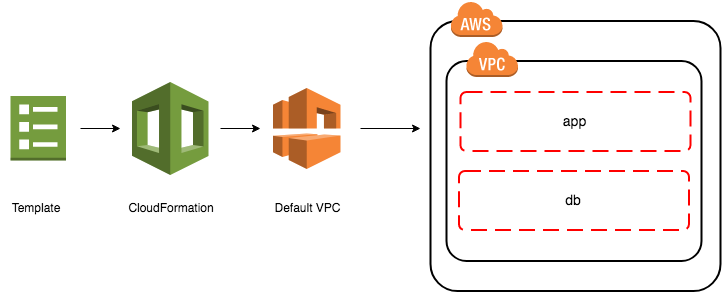
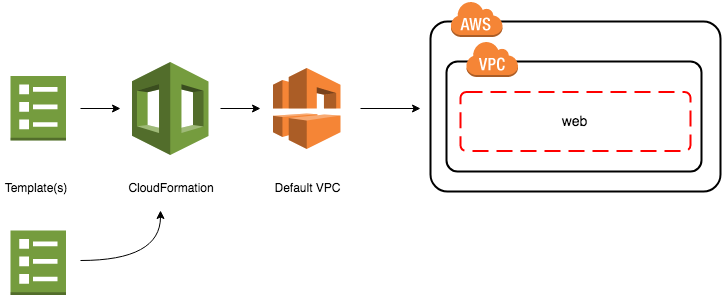
updated lab-002 including lab files

diff --git a/doc/lab-002.md b/doc/lab-002.md
@@ -12,37 +12,42 @@ lab-002 |
 [lab-006](lab-006.md)
 
 ## GOAL: Create SecurityGroup(s) on default VPC
-* Create two SecurityGroups, 'app' and 'db'
-* Groups will have no rules to start with. You will update the SecurityGroups 'app' to add rules.
-
+* Create Security Group with no rules 
+* Updated the Security Group with another stack to add rules to it.
+* Updated the Security Group again with another rule
 
 ![lab-002 SecurityGroups](https://raw.githubusercontent.com/sunil-tailor/lab_cloudformation/master/diagrams/lab-002-g1.png)
 
 
 ## Outcome
 
-This lab will be successful when you have provisioned 2 Security groups one called 'app' and another called 'db' and added the rules to the app security group. You are observing how using a single template file to update a maintian rules for a security group. This allows you to version control one file.
+This lab will be successful when you have provisioned a single Security group and added 2 rules to it via another CloudFormation stack with one rule being an stack update operation.
 
 
 ### Steps
 
+Edit the file `lab-002-g1.yaml` and replace the code entry:
+
+```
+GroupName: app-<YOUR NAME>``
+```
+- Add your name replacing the tag `<YOUR NAME>`
+
+
 <details>
 <summary>Using AWS Console</summary>
 <br/>
-
 
 __ALL services > Management Tools > CloudFormation__
 - Click __'Create Stack'__ Button
 
 __Select template:__
 - Choose __"Upload a template to Amazon S3"__
-- Upload file `lab-002-part-1-sg-app-000.yaml`
+- Upload file `lab-002-g1.yaml`
 - Click __"Next"__
 
 __Specify Details:__
-- Stack Details > __Stack Name__ : `lab-002-sg-<APP OR DB>-<YOUR NAME>`
-  - Replace `<APP OR DB>` with __app__ or __db__
-  - Replace `<YOUR NAME>` with your name in lowercase. This is to keep track of the stacks should you have loads of existing CloudFormation stacks.
+- Stack Details > __Stack Name__ : `lab-002-<YOUR NAME>sg-app`
 - Click __'Next'__
 
 __Options:__
@@ -53,21 +58,7 @@ __Review:__
 - Check the settings
 - Click __'Create'__
 
-__NOTE:__ Repeat the process for both templates: `lab-002-part-1-sg-app-000.yaml` and `lab-002-part-1-sg-db-000.yaml`
-
-Now you should have provisioned 2 security groups: `app` and `db`. Go to the AWS Console and view each of them the `app` Security Group should have no rules while the `db` Security Group should have one rule for MySQL database port.
-
-To view them goto:
-- AWS Console > Services > EC2
-- Network & Security > __Security Groups__   (Should be on the left hand side menu)
-
-Now we now run the following templates in turn: `sg-app-rules-UPDATE-001.yaml`, `sg-app-rules-UPDATE-002.yaml`, `sg-app-rules-UPDATE-003.yaml`
-
-The purpose of this lab is to understand how you can create a security group and add and remove rules from them.
-
 </details>
-
-<br/>
 
 If you prefer to use the CLI then expand __Using AWS CLI__ for steps.
 
@@ -77,11 +68,7 @@ If you prefer to use the CLI then expand __Using AWS CLI__ for steps.
 #### Validate your templates
 ```
 aws cloudformation validate-template \
---template-body file://lab-002-part-1-sg-app-000.yaml \
---profile pg19
-
-aws cloudformation validate-template \
---template-body file://lab-002-part-2-sg-db-000.yaml \
+--template-body file://lab-002-g1.yaml \
 --profile pg19
 ```
 
@@ -89,61 +76,123 @@ aws cloudformation validate-template \
 
 ```
 aws cloudformation create-stack \
---stack-name lab-002-sg-app-<YOUR NAME> \
---template-body file://lab-002-part-1-sg-app-000.yaml \
+--stack-name lab-002-<YOUR NAME>-sg-app \
+--template-body file://lab-002-g1.yaml \
 --profile pg19
 ```
-
-and 
-
-```
-aws cloudformation create-stack \
---stack-name lab-002-sg-db-<YOUR NAME> \
---template-body file://lab-002-part-2-sg-db-000.yaml \
---profile pg19
-```
-- Replace `<YOUR NAME>` with your name in lowercase. This is to keep track of the stacks should you have loads of existing CloudFormation stacks.
-
-Now you should have provisioned 2 security groups: `app` and `db`. Go to the AWS Console and view each of them the `app` Security Group should have no rules while the `db` Security Group should have one rule for MySQL database port.
-
-To view them goto:
-- AWS Console > Services > EC2
-- Network & Security > __Security Groups__  (Should be on the left hand side menu)
-
-Now we now run the following templates in turn: `sg-app-rules-UPDATE-001.yaml`, `sg-app-rules-UPDATE-002.yaml`, `sg-app-rules-UPDATE-003.yaml`
-
-
-```
-aws cloudformation update-stack \
---stack-name lab-002-sg-app-<YOUR NAME> \
---template-body file://sg-app-rules-UPDATE-001.yaml \
---profile pg19
-```
-
-You will notice 2 new rules appear HTTP and HTTPS.
-
-
-```
-aws cloudformation update-stack \
---stack-name lab-002-sg-app-<YOUR NAME> \
---template-body file://sg-app-rules-UPDATE-002.yaml \
---profile pg19
-```
-
-After running this stack update you will notice that the 2 rules from the previous update have disappear and only the rule of SSH, port 22 is now present. This is because the template only contain this rule. 
-
-```
-aws cloudformation update-stack \
---stack-name lab-002-sg-app-<YOUR NAME> \
---template-body file://sg-app-rules-UPDATE-002.yaml \
---profile pg19
-```
-
-After running the final stack update you'll notice that all 3 rules are now present for SSH, HTTP and HTTPS.
 
 </details>
 <br/>
-The purpose of this lab is to understand how you can create a security group and add and remove rules from them all from a single template.
+
+__View Security Group__
+- AWS Console > Services > EC2
+- Network & Security > __Security Groups__  (Should be on the left hand side menu)
+
+Note down the Security Group Id should be sometime like `sg-XXXXXXXX`
+
+Edit the files `lab-002-g2.yaml` and `lab-002-g3.yaml` replace the tag `<GROUP ID>` with your Security Group Id. 
+
+Create a new stack called `lab-002-<YOUR NAME>-sg-app-rules`
+
+<details>
+<summary>Using AWS Console</summary>
+<br/>
+
+__ALL services > Management Tools > CloudFormation__
+- Click __'Create Stack'__ Button
+
+__Select template:__
+- Choose __"Upload a template to Amazon S3"__
+- Upload file `lab-002-g2.yaml`
+- Click __"Next"__
+
+__Specify Details:__
+- Stack Details > __Stack Name__ : `lab-002-<YOUR NAME>sg-app-rules`
+- Click __'Next'__
+
+__Options:__
+- Permissions > IAM Role: `pg19meetupLabsRole`
+- Click __'Next'__
+
+__Review:__
+- Check the settings
+- Click __'Create'__
+
+</details>
+
+If you prefer to use the CLI then expand __Using AWS CLI__ for steps.
+
+<details>
+<summary>Using AWS CLI</summary>
+
+#### Validate your templates
+```
+aws cloudformation validate-template \
+--template-body file://lab-002-g2.yaml \
+--profile pg19
+```
+
+#### Run 
+
+```
+aws cloudformation create-stack \
+--stack-name lab-002-<YOUR NAME>-sg-app \
+--template-body file://lab-002-g2.yaml \
+--profile pg19
+```
+
+</details>
+<br>
+
+Now view the security group `app-<YOUR NAME>` 
+
+__View Security Group__
+- AWS Console > Services > EC2
+- Network & Security > __Security Groups__ (Should be on the left hand side menu)
+
+You should now see the rule has been added.
+
+Now we will update the rules stack again to see how to update stacks and add new rules.
+
+Update the stack `lab-002-<YOUR NAME>-sg-app-rules`
+
+<details>
+<summary>Using AWS Console</summary>
+<br/>
+
+__ALL services > Management Tools > CloudFormation__
+- Click __'Actions'__ > __Update Stack__ Button
+
+__Select template:__
+- Choose __"Upload a template to Amazon S3"__
+- Upload file "lab-003-g2.yaml"
+- Click __"Next"__
+
+__Specify Details:__
+- Stack Details > __Stack Name__ : `lab-002-<YOUR NAME>-sg-app-rules`
+- Click __'Next'__
+
+__Options:__
+- Permissions > IAM Role: `pg19meetupLabsRole`
+- Click __'Next'__
+
+__Review:__
+- Check the settings
+- Click __'Update'__
+</details>
+
+If you prefer to use the CLI then expand __Using AWS CLI__ for steps.
+
+<details>
+<summary>Using AWS CLI</summary>
+
+```
+aws cloudformation update-stack \
+--stack-name lab-002-<YOUR NAME>-app-rules \
+--template-body file://lab-002-g3.yaml \
+--profile pg19
+```
+</details>
 <br/>
 <br/>
 
@@ -154,31 +203,6 @@ The purpose of this lab is to understand how you can create a security group and
 * GroupName Constraints: Up to 255 characters in length. Cannot start with `sg-` .
 * Constraints for EC2-VPC: a-z, A-Z, 0-9, spaces, and `._-:/()#,@[]+=;{}!$*`
 
-```
-AWSTemplateFormatVersion: "2010-09-09"
-Description: Application Security Group
-Resources:
-  AppSecurityGroup:
-    Type: AWS::EC2::SecurityGroup
-    Properties:
-      GroupDescription: Application layer
-      GroupName: app
-      SecurityGroupIngress:
-        - IpProtocol: tcp
-          FromPort: '80'
-          ToPort: '80'
-          CidrIp: 0.0.0.0/0
-
-        - IpProtocol: tcp
-          FromPort: '443'
-          ToPort: '443'
-          CidrIp: 0.0.0.0/0
-
-        - IpProtocol: tcp
-          FromPort: '22'
-          ToPort: '22'
-          CidrIp: 0.0.0.0/0
-```
 
 ## Lessons learned
 * creating stack and performing updates through a single file.

diff --git a/doc/lab-003.md b/doc/lab-003.md
@@ -84,7 +84,7 @@ aws cloudformation create-stack \
 --template-body file://lab-003-g1.yaml \
 --parameters ParameterKey=KeyName,ParameterValue=pg19-meetup \
 ParameterKey=InstanceType,ParameterValue=t2.nano \
-ParameterKey=ServerName,ParameterValue=lab-001-<YOUR NAME> \
+ParameterKey=ServerName,ParameterValue=lab-003-<YOUR NAME> \
 ParameterKey=SSHLocation,ParameterValue=0.0.0.0/0 \
 --profile pg19 --region us-east-1
 ```
@@ -156,9 +156,13 @@ echo $CF_ARN
 
 ```
 aws cloudformation update-stack \
---stack-name lab-002-sg-app-<YOUR NAME> \
---arn-role $CF_ARN \
+--stack-name lab-003-<YOUR NAME> \
+--role-arn $CF_ARN \
 --template-body file://lab-003-g2.yaml \
+--parameters ParameterKey=KeyName,ParameterValue=pg19-meetup \
+ParameterKey=InstanceType,ParameterValue=t2.nano \
+ParameterKey=ServerName,ParameterValue=lab-003-<YOUR NAME> \
+ParameterKey=SSHLocation,ParameterValue=0.0.0.0/0 \
 --profile pg19 --region us-east-1
 ```
 </details>
